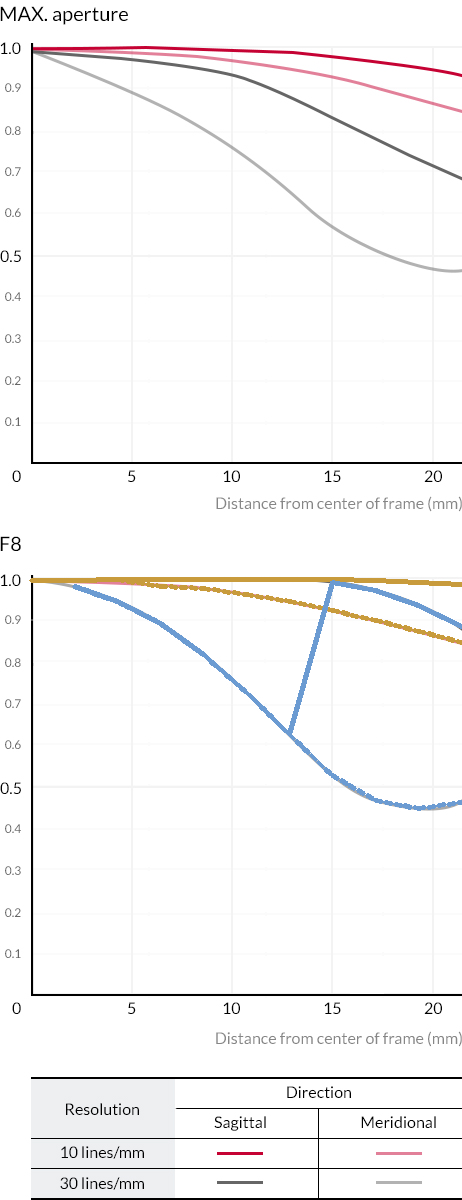
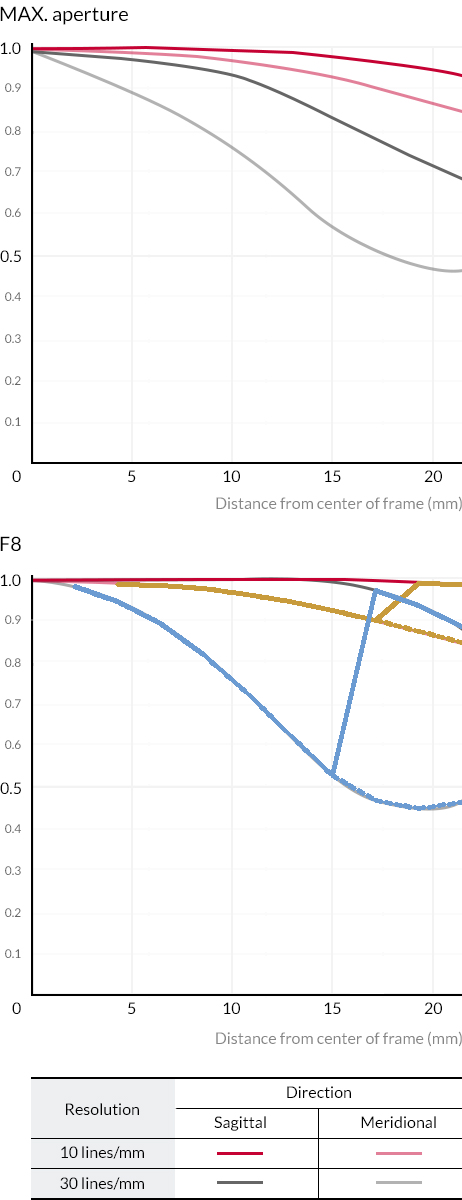
fix(mtf): per-chart y_top inset eliminates 30M chart-top contamination on 12mm fisheye (#1257)
The bright red 10S curve on samyang-12mm-f2-8-ed-as-ncs-fish-eye
stopped panel renders at chart-y 578-580 and emits grey AA halos at
chart-y 577 AND chart-y 581-582 (S~0, V in [160,195]) that qualify
for the 30M-light-grey HSV band. Without correction, the 30M skeleton
catches the halos as a spurious ridge at MTF~1.0, producing a
vertical-spike polyline artifact around mm 14.

This is the only Samyang lens with this contamination pattern; on
all 18 other Samyangs the 10S curve sits far enough below the plot
top that its halo lies entirely outside the plot box, OR there is no
co-located 30M overlap. The legitimate 30M curve on 12mm fisheye
starts at chart-y 583.

Fix: per-slug stopped-panel y_top inset table in
scaffold_samyang_tier2.py (_STOPPED_Y_TOP_INSET_BY_SLUG). 12mm fisheye
shifts y_top from 575 to 583, skipping both halo bands while
preserving every cell of the real 30M curve. Other Samyang lenses
get inset=0 (no change).

Alternatives rejected:
- 10S-red -> 30M-light-grey halo pair on the profile: wipes out the
  30M mask entirely on the 300mm reflex Tier 1 anchor where 30M and
  10S are structurally coincident at MTF=1.0 across the field. Even
  at dy=1 the anchor regresses from 11/11 to 4/11 paired.
- Global y_top shift on every Samyang stopped panel: many lenses
  (8mm fisheye, 10mm, 16mm) have legitimate 30M ink in rows 578-582
  where their 30M curve sits near MTF~1.0; trimming would lose data.
[…]

Changed region(s): [[0.0606, 0.4625, 0.9091, 0.5858], [0.697, 0.5858, 0.7576, 0.6475], [0.6061, 0.555, 0.6667, 0.6167]]

diff --git a/tools/mtfdigitizer/scripts/scaffold_samyang_tier2.py b/tools/mtfdigitizer/scripts/scaffold_samyang_tier2.py
@@ -90,6 +90,40 @@ _TIER1_SKIP_SLUGS: frozenset[str] = frozenset({
 })
 
 
+# Per-slug plot-box y_top inset for the stopped panel (#1257).
+#
+# The detector finds y_top by locating the chart's left vertical axis
+# line's topmost dark pixel — structurally correct. But on a few charts
+# the curve nearest the plot top sits exactly one pixel below the axis,
+# and its 1-pixel AA halo (a grey value at S~0, V~177-191) lands inside
+# the detected plot box at row y_top+2. That grey halo qualifies for
+# the 30M-light-grey HSV band (S<40, V in [160,195]) and the 30M mask
+# catches it as if it were a separate light-grey curve, producing a
+# vertical-spike polyline artifact in the overlay.
+#
+# Bumping y_top inward by a few rows skips the AA halo without losing
+# real data — verified per-chart that the trimmed rows contain only
+# white background or AA halo pixels of curves below them.
+#
+# Maintainer-eyeball verified; add new entries only after confirming the
+# trimmed rows are empty of the relevant hue's legitimate ink.
+_STOPPED_Y_TOP_INSET_BY_SLUG: dict[str, int] = {
+    # 12mm fisheye: red 10S curve renders at chart-y 578-580 (across the
+    # full x range) sending grey-valued AA halos to chart-y 577 AND
+    # chart-y 581-582. Both halo bands have V in [160,195] and S~0, so
+    # they qualify for the 30M-light-grey HSV band (#1257). The
+    # legitimate 30M curve on this lens starts at chart-y 583, so
+    # insetting y_top from 575 to 583 skips both halo bands while
+    # preserving every cell of the real 30M curve. Verified per-row:
+    # rows 575-582 contain only white background OR red-curve AA halos
+    # in this chart; no legitimate 30M ink. Other Samyang lenses are
+    # NOT eligible for this inset — many (8mm fisheye, 10mm, 16mm) have
+    # legitimate 30M ink in rows 578-582 where their 30M curve sits
+    # near MTF~1.0. (#1257)
+    "samyang-12mm-f2-8-ed-as-ncs-fish-eye": 8,
+}
+
+
 @dataclass(frozen=True)
 class _ChartFile:
     """One detected chart image's metadata."""
@@ -127,6 +161,14 @@ def _gather_charts() -> list[_ChartFile]:
                 f"14.2 for APS-C)."
             )
         boxes = detect_samyang_plotbox(chart_path)
+        inset = _STOPPED_Y_TOP_INSET_BY_SLUG.get(slug, 0)
+        if inset:
+            xl, xr, yt, yb = boxes.stopped_box
+            boxes = SamyangBoxResult(
+                plot_box=boxes.plot_box,
+                stopped_box=(xl, xr, yt + inset, yb),
+                image_size=boxes.image_size,
+            )
         charts.append(
             _ChartFile(
                 slug=slug,

diff --git a/tools/mtfdigitizer/tests/test_pipeline.py b/tools/mtfdigitizer/tests/test_pipeline.py
@@ -414,6 +414,46 @@ def test_samyang_14mm_stopped_30S_no_mid_field_sister_drag() -> None:
     )
 
 
+def test_samyang_12mm_fisheye_stopped_no_chart_top_30M_contamination() -> None:
+    """#1257 regression — on the 12mm fisheye stopped panel, the bright
+    red 10S curve at chart-y 578-580 emits grey AA halos at chart-y 577
+    AND chart-y 581-582 that qualify for the 30M-light-grey HSV band
+    (S<40, V in [160,195]). Without a per-chart inset on the stopped
+    panel's y_top, the 30M skeleton catches the halos as a spurious
+    ridge at MTF~1.0, producing a vertical-spike polyline artifact
+    around mm 14. The scaffolder applies an inset of 8 px on this lens
+    specifically (_STOPPED_Y_TOP_INSET_BY_SLUG in
+    scaffold_samyang_tier2.py); the legitimate 30M curve starts at
+    chart-y 583. Lock that the spurious top-y ridge is gone.
+
+    Halo-pair subtraction was rejected as a fix: a 10S-red -> 30M
+    halo pair wipes out the 30M mask entirely on the 300mm reflex
+    Tier 1 anchor where 30M and 10S are structurally coincident at
+    MTF=1.0 across the field. The per-chart plot-box inset is the only
+    fix that does not regress the anchor."""
+    SAMYANG_12_CHART, _, _ = _ref("samyang-12mm-f2-8-ed-as-ncs-fish-eye")
+    pb = _ref_view_plot_box("samyang-12mm-f2-8-ed-as-ncs-fish-eye", 1)
+    # Sanity-check the inset landed: y_top should be 583, not 575.
+    assert pb.y_top == 583, (
+        f"stopped y_top expected 583 (575 + 8 inset, #1257), got {pb.y_top}"
+    )
+    result = extract_chart(
+        SAMYANG_12_CHART,
+        SAMYANG_4COLOR_ALL_SOLID,
+        pb,
+        image_height_mm=14.2,
+    )
+    # frac 0.6 was the spike — extracted 30M should match the legitimate
+    # curve's value (~0.62), not the spurious MTF~1.0 chart-top pickup.
+    frac_06 = result.readings[6].samples.get("freq30M")
+    assert frac_06 is not None, "30M at frac 0.6 must read a value (#1257)"
+    assert 0.50 <= frac_06 <= 0.75, (
+        f"30M at frac 0.6: expected ~0.62 (legitimate curve), got "
+        f"{frac_06:.3f} — value near 1.0 means chart-top AA halo "
+        f"contamination not inset (#1257)"
+    )
+
+
 def test_sigma_56_10S_holds_high_until_knee() -> None:
     """REFERENCE_SET.md: 'Sigma 10S solid ~0.97 flat from 0 to ~10mm,
     then knees down'."""

diff --git a/tools/mtfdigitizer/referenceset/_samyang_tier2_charts.py b/tools/mtfdigitizer/referenceset/_samyang_tier2_charts.py
@@ -91,7 +91,7 @@ SAMYANG_TIER2_CHARTS: tuple[ReferenceChart, ...] = (
         additional_views=(
             ChartView(
                 chart_path="docs/optical-specs/samyang-12mm-f2-8-ed-as-ncs-fish-eye/samyang-12mm-f2-8-ed-as-ncs-fish-eye-mtf.png",
-                plot_box=PlotBoxCoords(x_left=31, x_right=461, y_top=575, y_bottom=995),
+                plot_box=PlotBoxCoords(x_left=31, x_right=461, y_top=583, y_bottom=995),
                 aperture="stopped",
             ),
         ),
